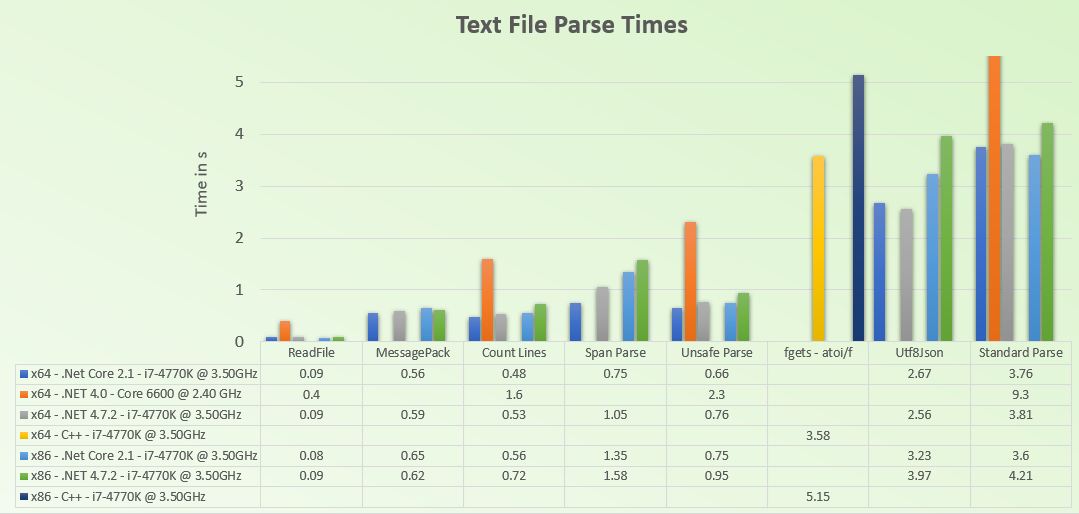
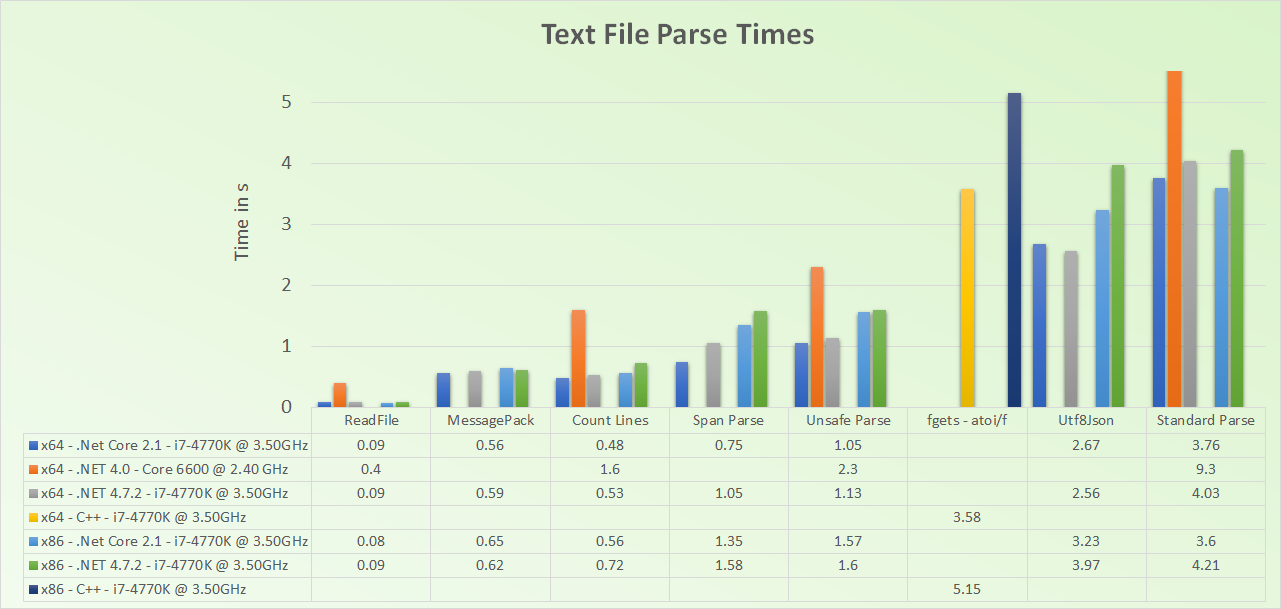
Fixed bug in ParseLinesUnsafe where only a part of the line would be parsed leading to wrong results.

diff --git a/src/Program.cs b/src/Program.cs
@@ -4,6 +4,7 @@ using System;
 using System.Collections.Generic;
 using System.ComponentModel;
 using System.Diagnostics;
+using System.Globalization;
 using System.IO;
 using System.Runtime.InteropServices;
 using System.Text;
@@ -165,8 +166,7 @@ namespace IOBound
 
         /// <summary>
         /// Read the file line by line and count the lines.
-        /// This is very fast because one never allocates long living objects. We always
-        /// need only one line in memory. 
+        /// This is very fast because one never allocates long living objects.
         /// </summary>
         private static int CountLines(string dataFile)
         {
@@ -334,6 +334,7 @@ namespace IOBound
         {
             var dobules = new List<double>();
             var ints = new List<int>();
+            char decimalChar = CultureInfo.CurrentCulture.NumberFormat.NumberDecimalSeparator[0];
 
             using (var reader = new StreamReader(dataFile))
             {
@@ -344,6 +345,9 @@ namespace IOBound
                 while ((line = reader.ReadLine()) != null)
                 {
                     int len = line.Length;
+                    ix = 0;
+                    a = 0;
+                    b = 0;
                     fixed (char* ln = line)
                     {
                         while (ix < len && char.IsNumber(ln[ix]))
@@ -351,7 +355,7 @@ namespace IOBound
                             a = a * 10 + (ln[ix++] - '0');
                         }
 
-                        if (ln[ix] == ',')
+                        if (ln[ix] == decimalChar)
                         {
                             ix++;
                             long div = 1;
@@ -375,7 +379,7 @@ namespace IOBound
                         }
 
                         dobules.Add(d);
-                        ints.Add(ix);
+                        ints.Add(i);
                     }
                 }
             }
